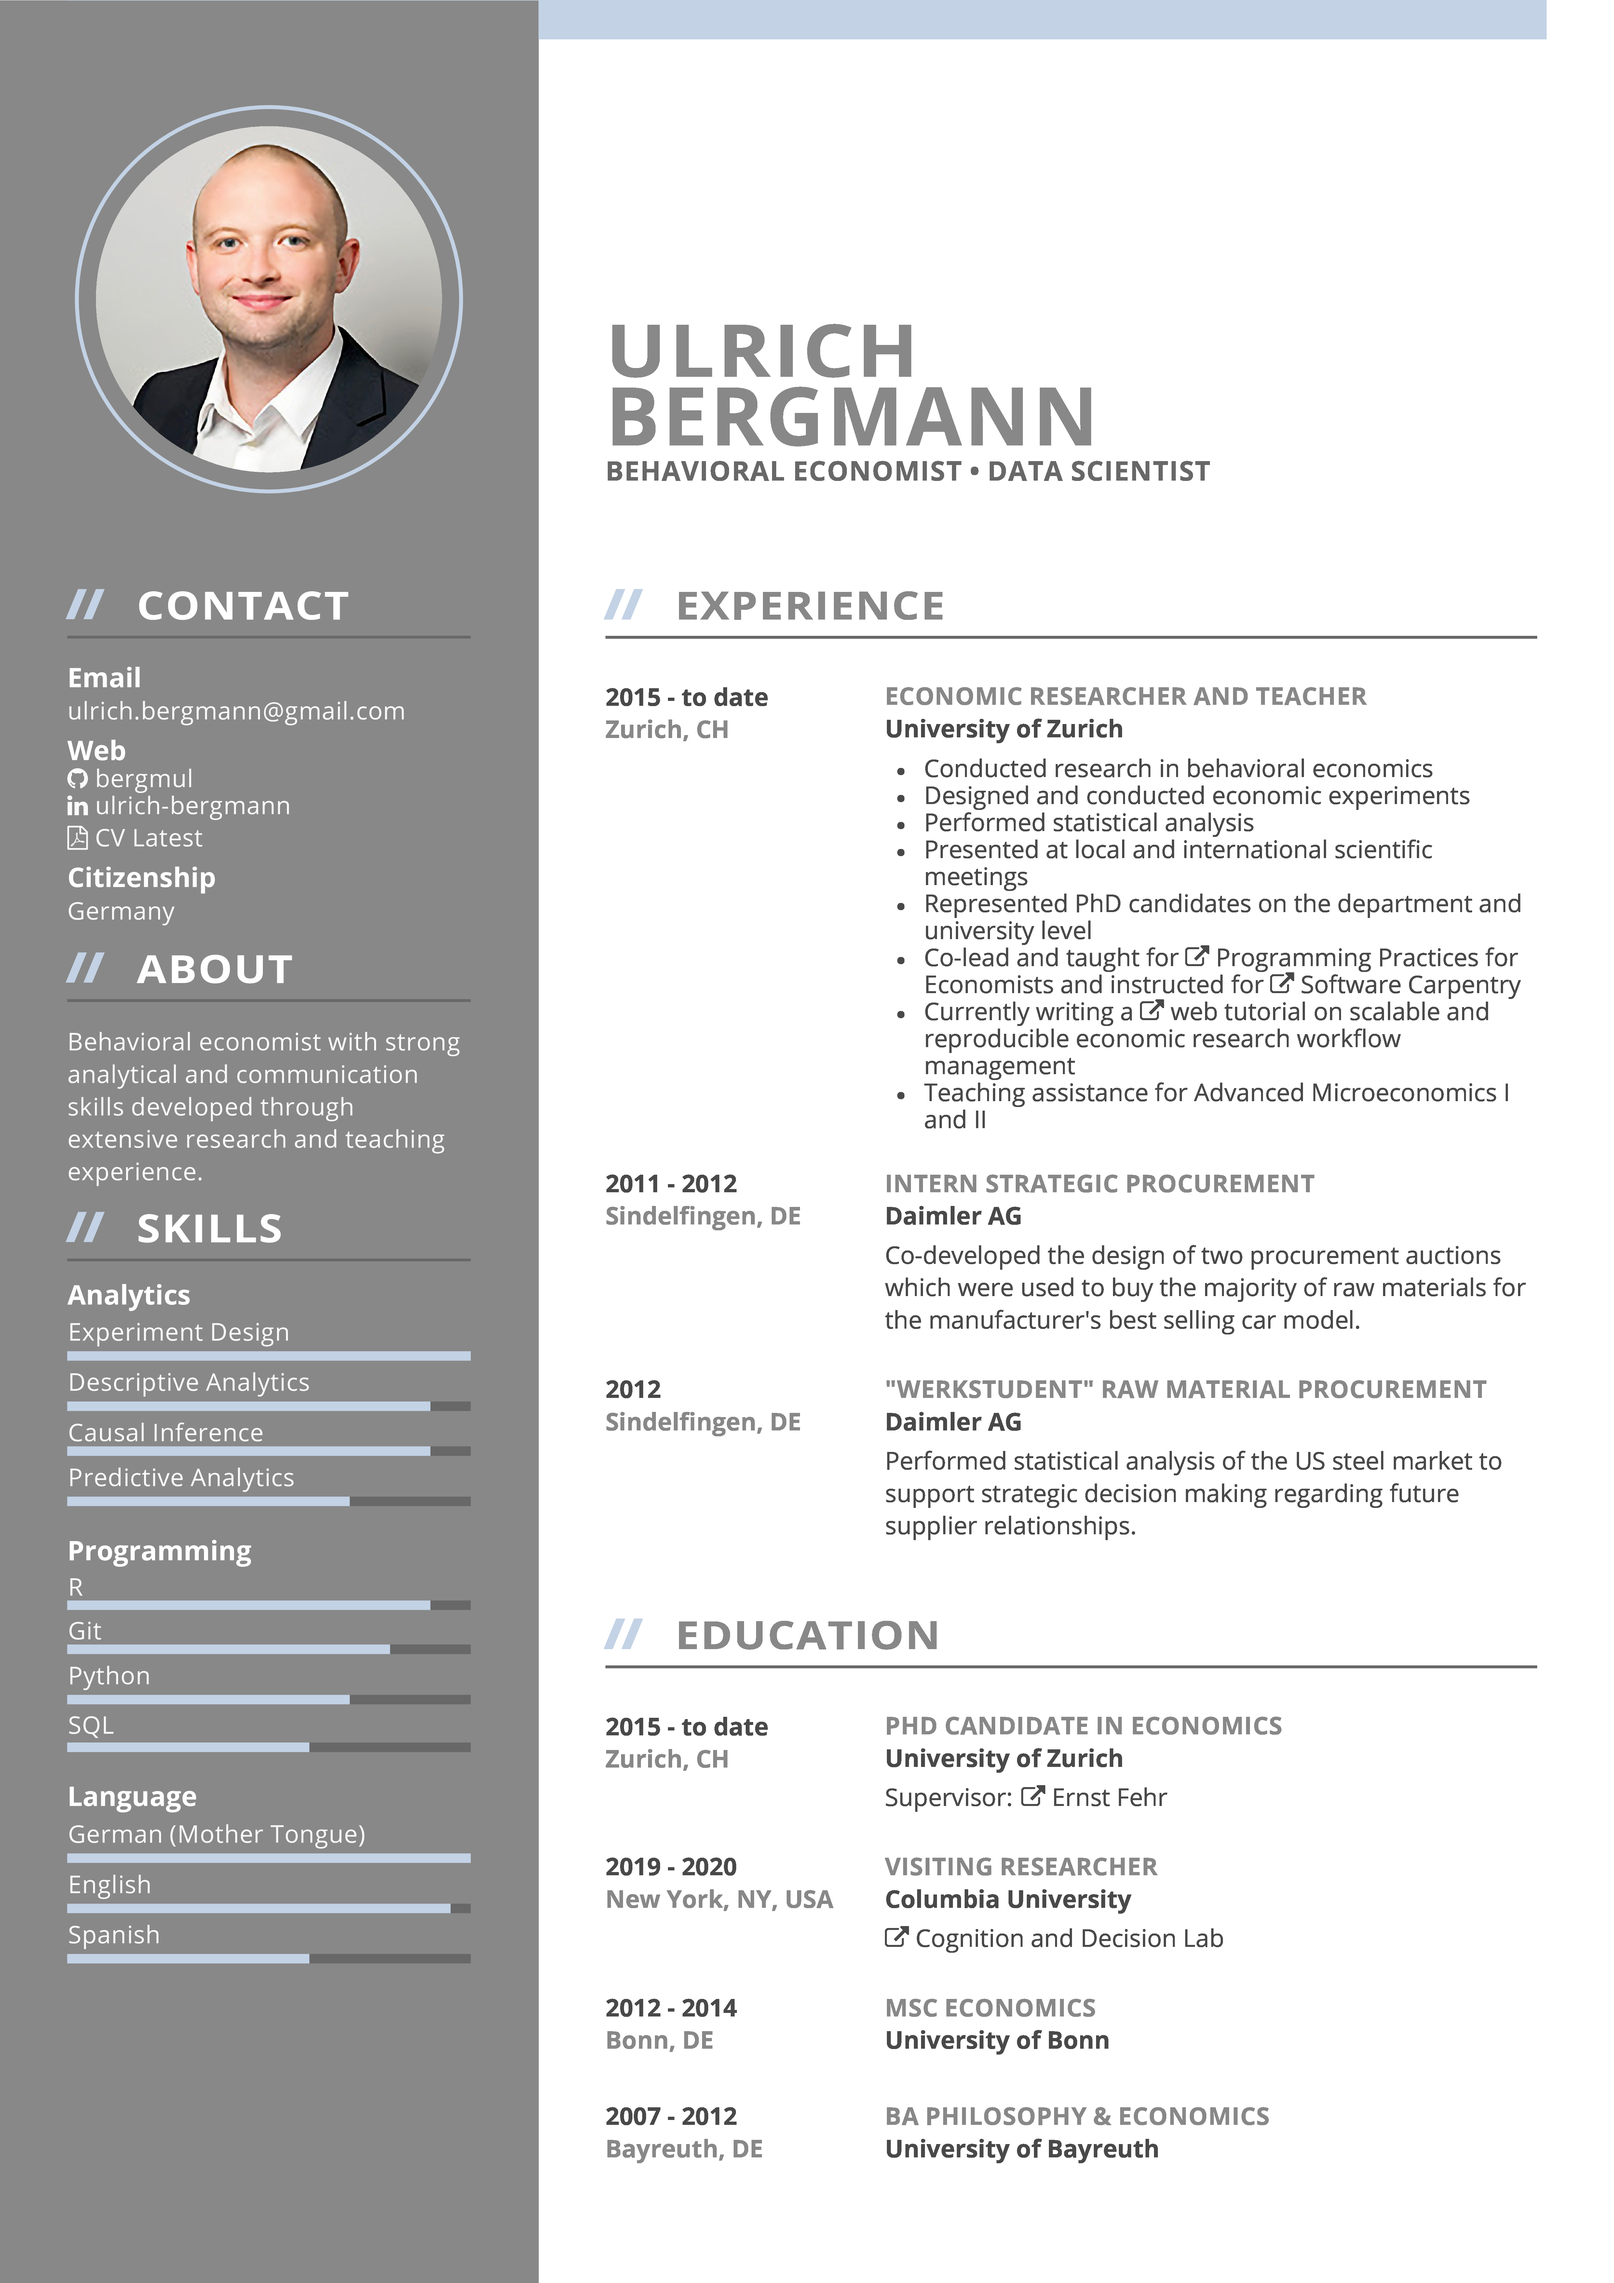
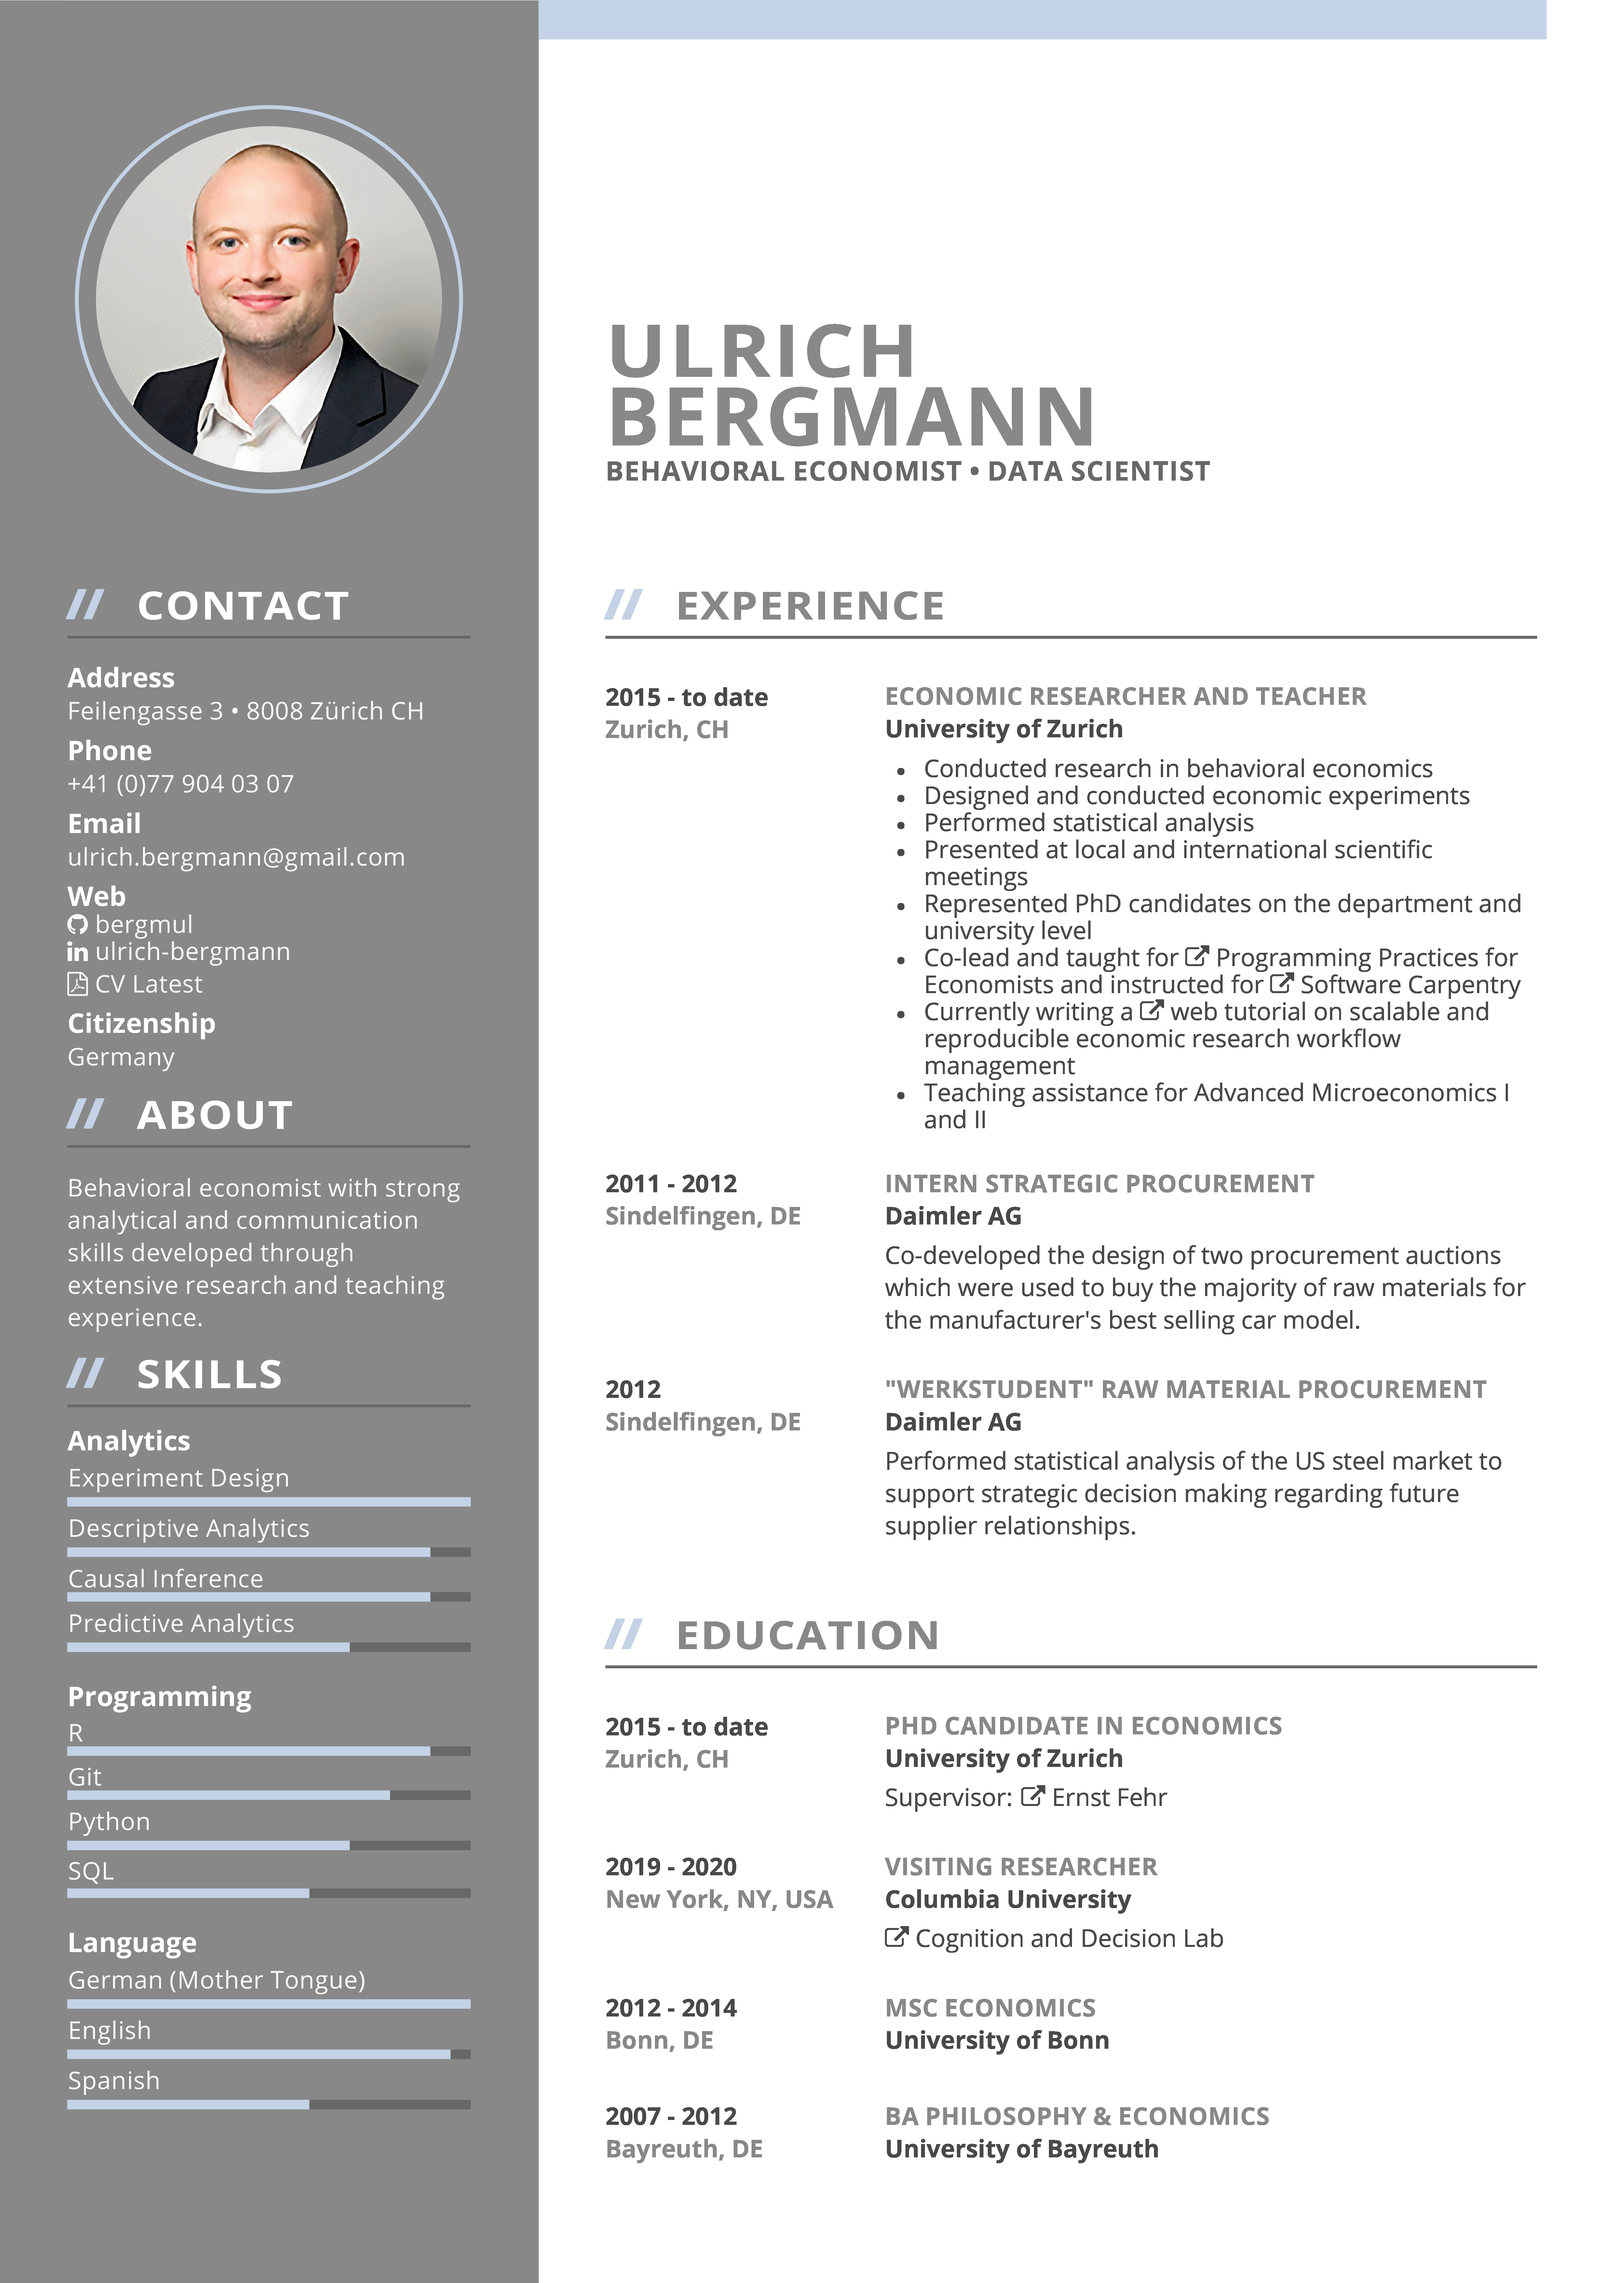
private contact data

Changed region(s): [[0.0312, 0.2809, 0.3124, 0.9364]]

diff --git a/resources/contact.tex b/resources/contact.tex
@@ -1,0 +1,15 @@
+%-------------------------------------------------------------------------------
+% public contact section
+% omits address and phone number
+%-------------------------------------------------------------------------------
+
+\photo{resources/img}
+\citizenship{Germany}
+\name{Ulrich}{Bergmann}
+\position{Behavioral Economist • Data Scientist}
+\address{Feilengasse 3 • 8008 Zürich CH}
+\phone{+41 (0)77 904 03 07}
+\email{ulrich.bergmann@gmail.com}
+\linkedin{\href{https://www.linkedin.com/in/ulrich-bergmann}{\faLinkedin \ ulrich-bergmann}}
+\github{\href{https://www.github.com/bergmul}{\faGithub \ \@bergmul}}
+\cv{\href{https://github.com/bergmul/cv/blob/main/cv.pdf}{\faFilePdfO \ CV Latest}}

diff --git a/cv.tex b/cv.tex
@@ -25,12 +25,12 @@
 %-------------------------------------------------------------------------------
 
 % load sidebar content
-\input{resources/publicContact}
+\input{resources/contact}
 \input{resources/sidebar}
 
 % define sidebar entries for build
 \sidebarentries{%
-  publicContact,
+  contact,
   about,
   skills%
 }
